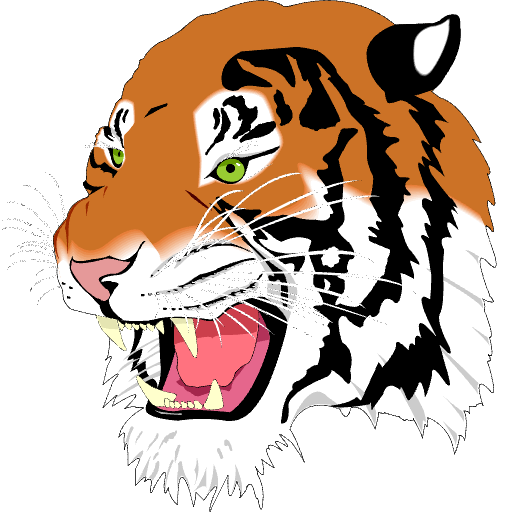
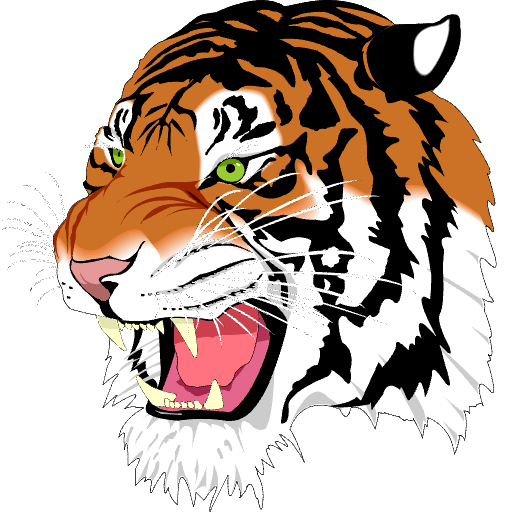
fix bugs

diff --git a/lib/src/rasterization_algorithms/tessellation/tessellation_rasterizer.dart b/lib/src/rasterization_algorithms/tessellation/tessellation_rasterizer.dart
@@ -119,16 +119,27 @@ class TessellationRasterizer {
     }
     if (_contourScratch.isEmpty) return;
 
+    // Earcut path in this rasterizer is fragile with many contours/holes from
+    // real-world SVGs. Use a robust scanline fallback for multi-contour paths.
+    if (_contourScratch.length > 1) {
+      _rasterizeContoursFallback(_contourScratch, color, windingRule);
+      return;
+    }
+
     _trianglesScratch.clear();
     List<double> triangles;
     try {
       triangles =
           _triangulateContours(_contourScratch, _trianglesScratch, windingRule);
     } catch (e) {
-      _debug('Triangulation skipped polygon due to error: $e');
+      _debug('Triangulation fallback due to error: $e');
+      _rasterizeContoursFallback(_contourScratch, color, windingRule);
       return;
     }
-    if (triangles.isEmpty) return;
+    if (triangles.isEmpty) {
+      _rasterizeContoursFallback(_contourScratch, color, windingRule);
+      return;
+    }
 
     _rasterizeTriangles(triangles, color);
   }
@@ -289,6 +300,115 @@ class TessellationRasterizer {
       cursor += step;
     }
     return out;
+  }
+
+  void _rasterizeContoursFallback(
+      List<List<double>> contours, int color, int windingRule) {
+    if (contours.isEmpty) return;
+
+    double minX = double.infinity;
+    double minY = double.infinity;
+    double maxX = double.negativeInfinity;
+    double maxY = double.negativeInfinity;
+    for (final contour in contours) {
+      final n = contour.length >> 1;
+      for (int i = 0; i < n; i++) {
+        final x = contour[i << 1];
+        final y = contour[(i << 1) + 1];
+        if (x < minX) minX = x;
+        if (y < minY) minY = y;
+        if (x > maxX) maxX = x;
+        if (y > maxY) maxY = y;
+      }
+    }
+    if (!minX.isFinite || !minY.isFinite || !maxX.isFinite || !maxY.isFinite) {
+      return;
+    }
+
+    int xStart = minX.floor();
+    int yStart = minY.floor();
+    int xEndEx = maxX.ceil();
+    int yEnd = maxY.ceil() - 1;
+    if (xStart < 0) xStart = 0;
+    if (yStart < 0) yStart = 0;
+    if (xEndEx > width) xEndEx = width;
+    if (yEnd >= height) yEnd = height - 1;
+    if (xEndEx <= xStart || yEnd < yStart) return;
+
+    final offsets = _sampleOffsets;
+    final samplesLen = offsets.length;
+    final srcA = (color >>> 24) & 255;
+
+    for (int y = yStart; y <= yEnd; y++) {
+      final row = y * width;
+      for (int x = xStart; x < xEndEx; x++) {
+        int hits = 0;
+        for (int s = 0; s < samplesLen; s += 2) {
+          final px = x + offsets[s];
+          final py = y + offsets[s + 1];
+          if (_pointInContours(px, py, contours, windingRule)) {
+            hits++;
+          }
+        }
+        if (hits == 0) continue;
+        final aa = _alphaLut[hits];
+        if (aa <= 0) continue;
+        final effA = srcA >= 255 ? aa : ((aa * srcA + 127) ~/ 255);
+        if (effA >= 255) {
+          _buffer[row + x] = color;
+        } else if (effA > 0) {
+          _blendPixel(x, y, color, effA);
+        }
+      }
+    }
+  }
+
+  @pragma('vm:prefer-inline')
+  bool _pointInContours(
+      double x, double y, List<List<double>> contours, int windingRule) {
+    if (windingRule == 0) {
+      bool inside = false;
+      for (final poly in contours) {
+        final n = poly.length >> 1;
+        int j = n - 1;
+        double xj = poly[j << 1];
+        double yj = poly[(j << 1) + 1];
+        for (int i = 0; i < n; i++) {
+          final xi = poly[i << 1];
+          final yi = poly[(i << 1) + 1];
+          if ((yi > y) != (yj > y)) {
+            final t = (y - yi) / (yj - yi);
+            final ix = xi + (xj - xi) * t;
+            if (ix >= x) inside = !inside;
+          }
+          j = i;
+          xj = xi;
+          yj = yi;
+        }
+      }
+      return inside;
+    }
+
+    int winding = 0;
+    for (final poly in contours) {
+      final n = poly.length >> 1;
+      int j = n - 1;
+      double xj = poly[j << 1];
+      double yj = poly[(j << 1) + 1];
+      for (int i = 0; i < n; i++) {
+        final xi = poly[i << 1];
+        final yi = poly[(i << 1) + 1];
+        if ((yi > y) != (yj > y)) {
+          final t = (y - yi) / (yj - yi);
+          final ix = xi + (xj - xi) * t;
+          if (ix >= x) winding += yj > yi ? 1 : -1;
+        }
+        j = i;
+        xj = xi;
+        yj = yi;
+      }
+    }
+    return winding != 0;
   }
 
   List<double> _triangulateContours(

diff --git a/lib/src/rasterization_algorithms/lnaf_se/lnaf_se_rasterizer.dart b/lib/src/rasterization_algorithms/lnaf_se/lnaf_se_rasterizer.dart
@@ -321,7 +321,9 @@ class LNAFSERasterizer implements PolygonContract {
   static const int kScale = 256;
   static const int kHalf = 128;
   static const int kInvQ = 20;
-  static const int kMinEdgeDy = 2; // 2/256 px
+  static const int kMinEdgeDy = 0; // keep all non-horizontal edges
+  static const int kFlatEdgeDy = 4; // 4/256 px
+  static const int kFlatSlopeShift = 5; // dx >= dy * 32 => near-horizontal
 
   final int width;
   final int height;
@@ -430,6 +432,16 @@ class LNAFSERasterizer implements PolygonContract {
     return -(((-num) + (den >> 1)) ~/ den);
   }
 
+  @pragma('vm:prefer-inline')
+  static bool _skipEdgeBySlope(int dxAbs, int dyAbs) {
+    if (dyAbs <= kMinEdgeDy) return true;
+    // Suppress ultra-flat micro-edges that create horizontal streak artifacts.
+    if (dyAbs <= kFlatEdgeDy && dxAbs >= (dyAbs << kFlatSlopeShift)) {
+      return true;
+    }
+    return false;
+  }
+
   void _buildEdges(List<double> vertices, List<int>? contourCounts) {
     final totalPoints = vertices.length >> 1;
     bool useSingleContour;
@@ -470,10 +482,13 @@ class LNAFSERasterizer implements PolygonContract {
       for (int i = 0; i < count; i++) {
         final p0 = start + i;
         final p1 = start + ((i + 1) % count);
+        final x0 = (vertices[p0 << 1] * kScale).round();
+        final x1 = (vertices[p1 << 1] * kScale).round();
         final y0 = (vertices[(p0 << 1) + 1] * kScale).round();
         final y1 = (vertices[(p1 << 1) + 1] * kScale).round();
+        final dxAbs = (x1 - x0).abs();
         final dyAbs = (y1 - y0).abs();
-        if (dyAbs <= kMinEdgeDy) continue;
+        if (_skipEdgeBySlope(dxAbs, dyAbs)) continue;
         edgeCount++;
       }
     });
@@ -528,8 +543,9 @@ class LNAFSERasterizer implements PolygonContract {
         int y0 = (vertices[p0x + 1] * kScale).round();
         int x1 = (vertices[p1x] * kScale).round();
         int y1 = (vertices[p1x + 1] * kScale).round();
+        final dxAbs = (x1 - x0).abs();
         final dyAbs = (y1 - y0).abs();
-        if (dyAbs <= kMinEdgeDy) continue;
+        if (_skipEdgeBySlope(dxAbs, dyAbs)) continue;
 
         final winding = (y1 > y0) ? 1 : -1;
 
@@ -706,9 +722,9 @@ class LNAFSERasterizer implements PolygonContract {
       for (int i = 0; i < _activeCount; i++) {
         final e = _active[i];
         if (y >= _eYEnd[e]) continue;
-        _ix[n] = _eX[e];
+        // Use exact per-scanline intersection to avoid DDA drift artifacts.
+        _ix[n] = _edgeXAtY(e, yCenter);
         _ie[n] = e;
-        _eX[e] = _eX[e] + _eDx[e];
         _active[n] = e;
         n++;
       }
@@ -1274,17 +1290,10 @@ class LNAFSERasterizer implements PolygonContract {
     bool insidePositiveR,
   ) {
     final leftMin = xLTop < xLBot ? xLTop : xLBot;
-    final leftMax = xLTop > xLBot ? xLTop : xLBot;
-    final rightMin = xRTop < xRBot ? xRTop : xRBot;
     final rightMax = xRTop > xRBot ? xRTop : xRBot;
-    final pxRight = pxLeft + kScale;
 
-    // Strong classify to avoid horizontal artifact bands:
-    // if pixel column stays fully between swept left/right edges for the entire
-    // scanline strip, force solid 255.
-    if (leftMax <= pxLeft && rightMin >= pxRight) return 255;
-    // If no overlap with strip, force 0.
-    if (rightMax <= pxLeft || leftMin >= pxRight) return 0;
+    // Invalid or inverted span at this row; reject to avoid horizontal streaks.
+    if (rightMax <= leftMin) return 0;
 
     final covR = _integrateCovRight(xRTop - pxLeft, xRBot - pxLeft);
     final covL = _integrateCovRight(xLTop - pxLeft, xLBot - pxLeft);
@@ -1304,6 +1313,10 @@ class LNAFSERasterizer implements PolygonContract {
         softnessQ8: _qualityCfg.softnessQ8,
       );
     }
+    // Suppress very-low/high quantization residue that appears as horizontal
+    // streaks on real SVGs with many near-horizontal micro-segments.
+    if (cov <= 2) return 0;
+    if (cov >= 253) return 255;
     return cov;
   }
 
